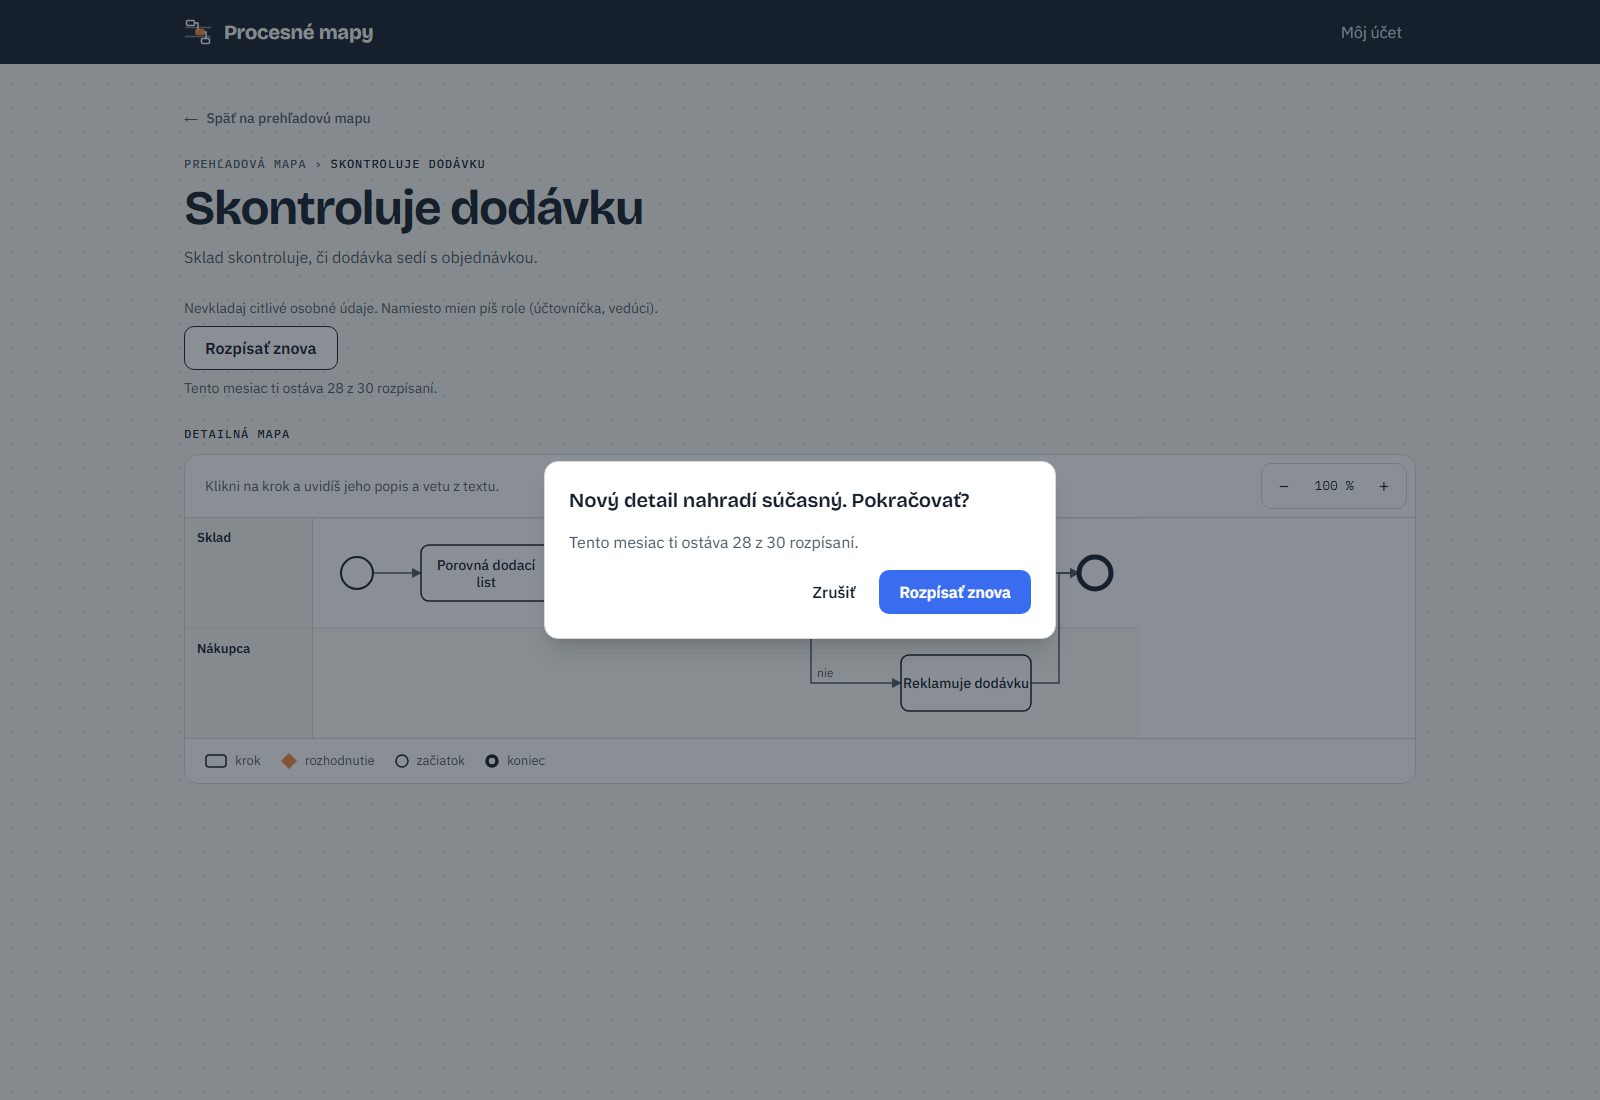
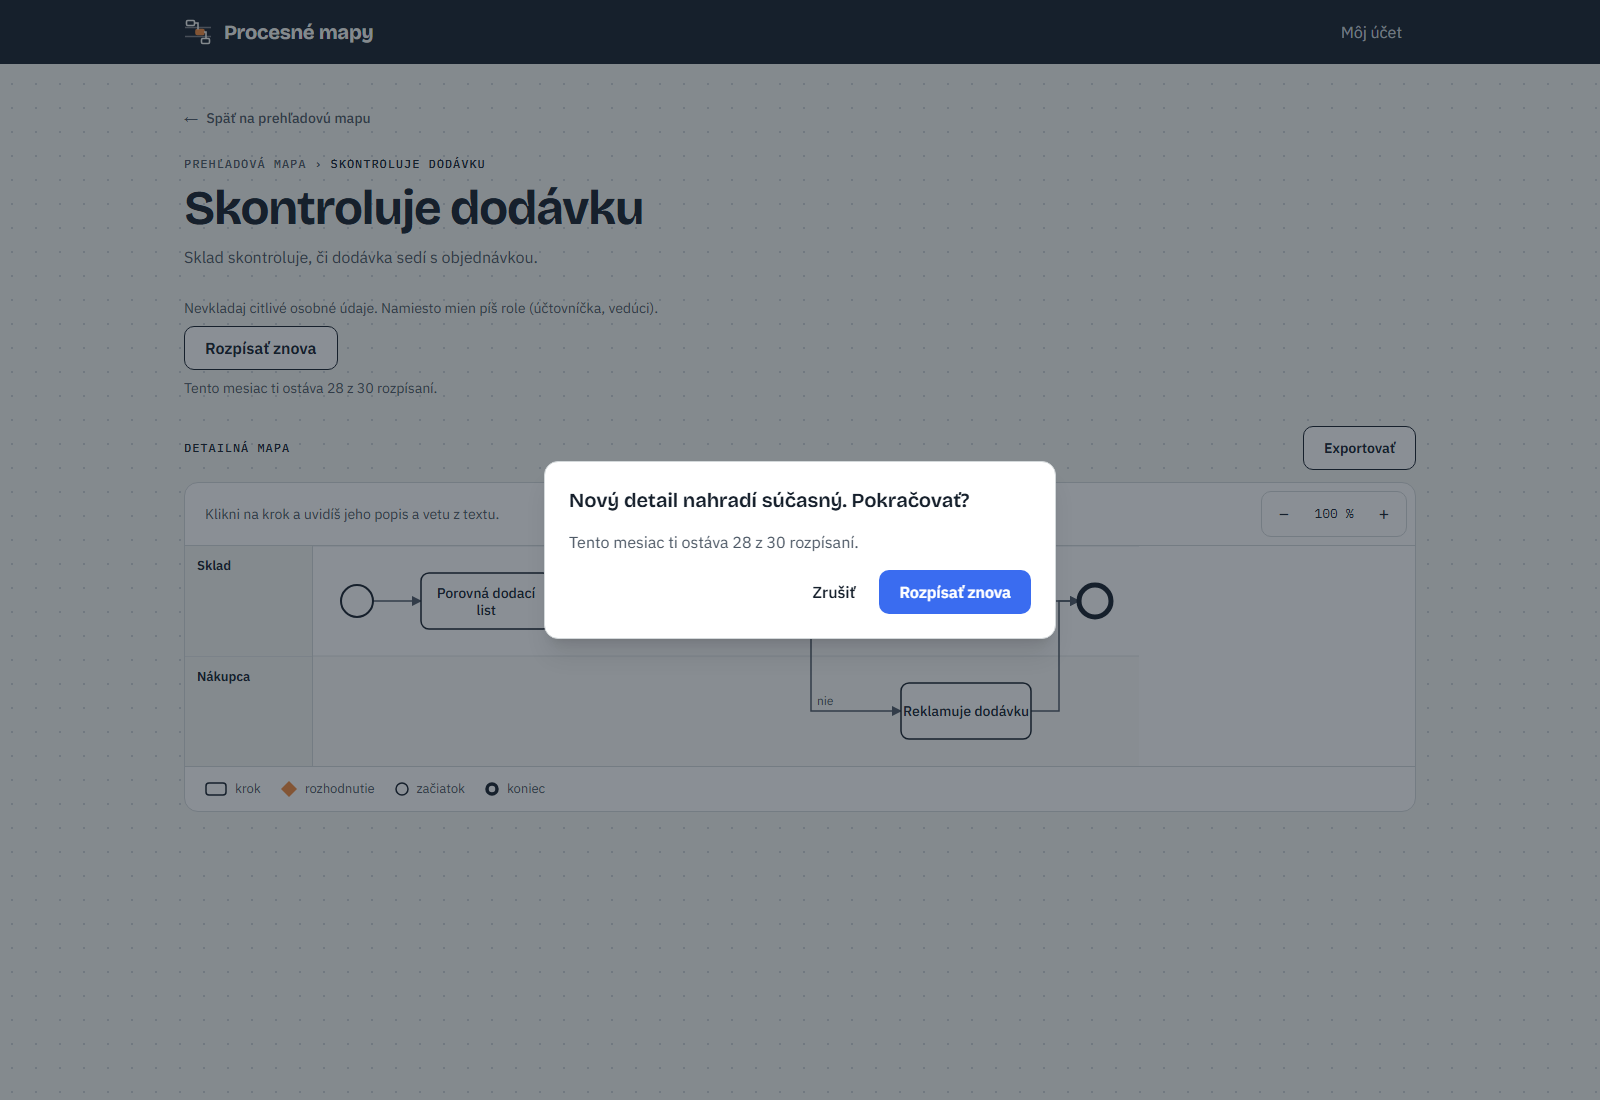
Dokumentácia podľa stavu z 2026-10-20.

diff --git a/index.md b/index.md
@@ -4,7 +4,7 @@ title: "Procesné mapy: čo appka zatiaľ vie"
 
 # Procesné mapy: čo appka zatiaľ vie
 
-Stav k 20. 10. 2026 o 16:07.
+Stav k 20. 10. 2026 o 17:05.
 
 Procesné mapy je webová aplikácia, ktorá z popisu procesu urobí procesnú mapu. Dnes vie z vloženého textu nakresliť prehľadovú mapu s krokmi rozdelenými podľa rolí, ktorýkoľvek krok rozpísať na detailnú mapu a mapu ručne opraviť. Hotovú mapu môžeš poslať odkazom niekomu, kto nemá účet, alebo si ju stiahnuť ako obrázok. Je zadarmo, s limitom 15 analýz mesačne na účet.
 
@@ -157,19 +157,22 @@ Odkaz otvorí ktokoľvek bez prihlásenia, aj na mobile. Vidí názov mapy a pre
 
 ![Detailná mapa kroku očami príjemcu, len na čítanie, s odkazom späť na prehľadovú mapu](obrazky/zdielany-detail.png)
 
-## Export mapy ako obrázok
+## Export mapy ako obrázok (prehľadová aj detailná)
 
 Keď potrebuješ mapu do e-mailu, prezentácie alebo na tlač, nemusíš fotiť obrazovku. Pri analyzovanej mape je nad prehľadovou mapou tlačidlo „Exportovať“.
 
 - Klikneš naň, vyberieš „Obrázok (PNG)“ a súbor sa hneď stiahne. Volá sa podľa názvu mapy.
 - Obrázok je prehľadová mapa na bielom pozadí a je ostrý aj pri priblížení. Hore je názov mapy, dole dátum exportu.
 - Je v ňom všetko, čo mapa ukazuje: pásy rolí, kroky, rozhodnutia, súbežné cesty, začiatok, koniec aj návraty späť. Pod mapou je zoznam krokov s popisom.
+- Rovnako si môžeš stiahnuť detailnú mapu rozpísaného kroku: na stránke kroku je nad detailnou mapou to isté tlačidlo „Exportovať“. Hore je názov mapy a pod ním názov kroku, súbor sa volá „názov mapy - názov kroku“.
 - Je čistý, takže ho môžeš poslať aj niekomu zvonku: nemá značky „Pridané ručne“ ani „Upravené ručne“, upozornenia, vety z textu ani tvoj e-mail.
 - Mapa vyzerá ako na obrazovke vrátane tvojho rozloženia a jazyka mapy.
 - Export vzniká priamo v prehliadači. Nič sa nikam neposiela, nevolá sa AI a nestojí nič z limitov.
 - Tlačidlo nie je pri mape čakajúcej na analýzu ani na stránke, ktorú vidí príjemca zdieľaného odkazu.
 
 ![Tlačidlo „Exportovať“ nad prehľadovou mapou s ponukou „Obrázok (PNG)“](obrazky/export-ponuka.png)
+
+![Stiahnutý obrázok detailnej mapy kroku: názov mapy a pod ním názov kroku, pásy rolí, rozhodnutie a dole dátum exportu](obrazky/export-detail-obrazok.png)
 
 ![Stiahnutý obrázok mapy: názov hore, pásy rolí, kroky, rozhodnutia, súbežné cesty a návrat, dole zoznam krokov a dátum exportu](obrazky/export-obrazok.png)
 
@@ -180,6 +183,6 @@ Dnes appka berie len vložený text. V tomto poradí prídu:
 1. Nahratie dokumentu (Word, PDF…) ako vstupu.
 2. Nahratie záznamu alebo prepisu stretnutia.
 3. Spojenie viacerých vstupov do jednej mapy.
-4. Export ako PDF a export detailnej mapy a staršej verzie (dnes sa dá stiahnuť len obrázok prehľadovej mapy).
+4. Export ako PDF a export staršej verzie s upozornením (dnes sa dá stiahnuť len obrázok prehľadovej aj detailnej mapy).
 
 Neskoršie, mimo tohto zoznamu: platby, prihlásenie cez Microsoft či Google a spoločné priestory pre kolegov z jednej firmy.
